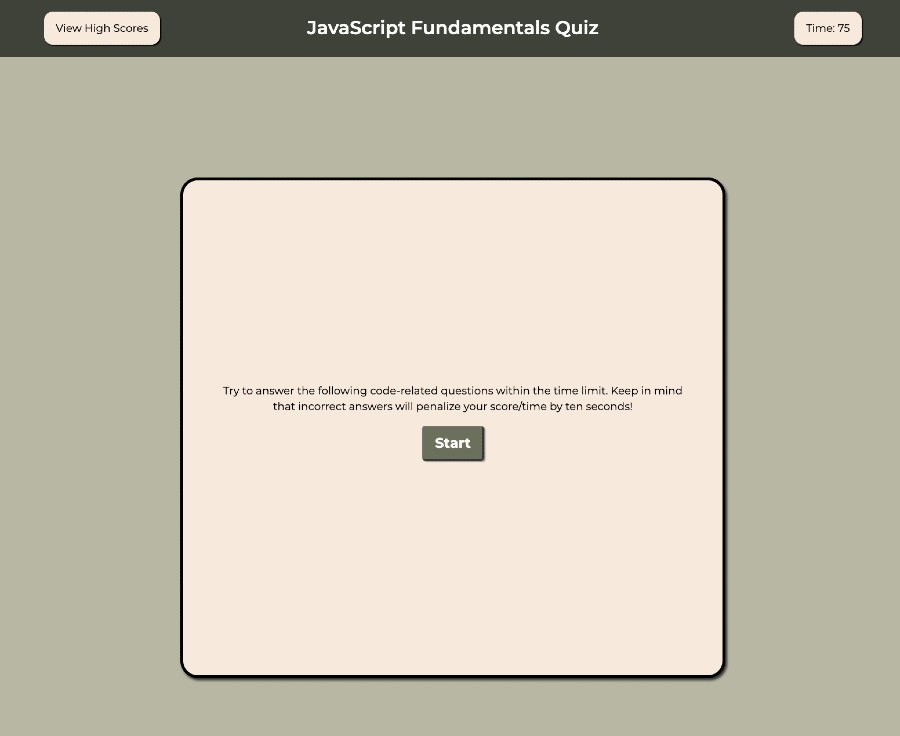
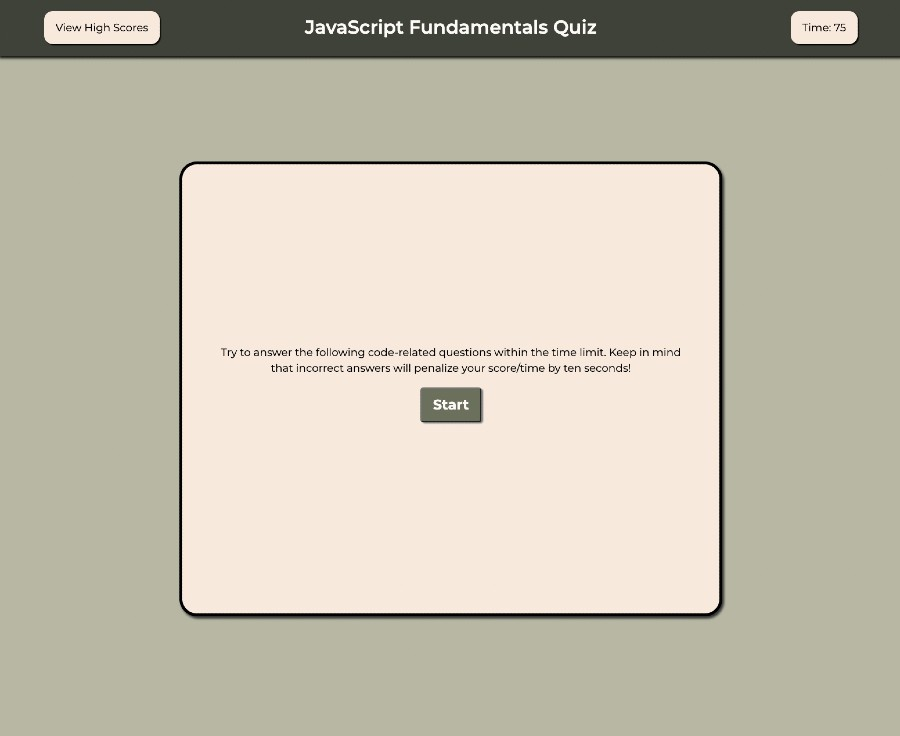
can't stop css-ing

Changed region(s): [[0.1867, 0.2188, 0.8089, 0.9375], [0.0, 0.0, 1.0, 0.0938], [0.2489, 0.4688, 0.7467, 0.625]]

diff --git a/assets/style.css b/assets/style.css
@@ -9,8 +9,6 @@
 :root {
   --correct:hsl(120, 43%, 24%);
   --incorrect:hsl(0, 53%, 69%);
-  --high-score:hsl(26, 65%, 92%);
-  --high-score-hover:hsl(21, 43%, 60%);
   --choice-btn:hsl(75, 10%, 40%);
   --choice-btn-hv:hsl(75, 10%, 35%);
   --high-score-list-col-1:#b7b7a4;
@@ -31,63 +29,7 @@ body {
   font-size: 1.15rem;
 }
 
-.container {
-  margin-top: 40px;
-  display: flex;
-  flex-direction: column;
-  justify-content: center;
-  height: 60%;
-  width:60%;
-  max-width: 70%;
-  background-color:var(--container-bg);
-  border-radius: 30px;
-  padding: 40px;
-  border: 5px solid black;
-  align-items: center;
-  text-align: center;
-  box-shadow: 3px 4px 4px rgb(53, 53, 53);
-}
-
-
-.btn {
-  background-color:var(--choice-btn);
-  border-radius: 5px;
-  padding:10px 10px;
-  outline: none;
-  cursor: pointer;
-  font-weight: 600;
-  margin: 5px;
-  font-size: 1.05rem;
-  box-shadow: 3px 2px 2px grey;
-  color: hsl(27, 66%, 98%);
-}
-
-.btn:hover {
-  border-color: #000;
-  transform: scale(1.03);
-  transform: .3s all ease;
-  background-color: var(--choice-btn-hv);
-}
-
-.btn-disabled {
-  pointer-events: none;
-}
-
-.start-btn {
-  font-weight: bold;
-  padding:10px 20px;
-  font-size: 1.5rem;
-  margin: 20px;
-}
-
-.controls {
-  margin: 20px;
-  display: flex;
-  flex-direction: column;
-  justify-content: center;
-  align-items: center;
-  }
-
+/* header  */
 header {
   display: flex;
   width: 100%;
@@ -97,11 +39,12 @@ header {
   background-color: var(--header);
   align-items: center;
   justify-content: space-around;
+  box-shadow: 0px 3px 5px #000;
 }
 
 header h1 {
   font-size: 2rem;
-  color: #fff;
+  color: hsl(27, 66%, 98%);
   margin: auto;
   font-weight: 600;
 }
@@ -123,6 +66,15 @@ header h1 {
   transition: .2s all ease;
 }
 
+#timer {
+  position:absolute;
+  right:5%;
+  background-color: var(--container-bg);
+  padding: 15px 20px;
+  border-radius: 15px; 
+  box-shadow: 2px 2px 2px #000;
+}
+
 #play-again {
   position:absolute;
   left:5%;
@@ -132,7 +84,6 @@ header h1 {
   cursor: pointer;
   text-decoration: none;
   color: #000;
-  font-weight: 600;
   box-shadow: 2px 2px 2px #000;
 }
 
@@ -141,37 +92,59 @@ header h1 {
   transition: .2s all ease;
 }
 
-#play-again-score-screen {
-  background-color: var(--container-bg);
-  padding: 15px 20px;
-  border-radius: 15px;
+
+/* main part of the game  */
+.container {
+  margin-top: 40px;
+  display: flex;
+  flex-direction: column;
+  justify-content: center;
+  height: 60%;
+  width:60%;
+  max-width: 70%;
+  background-color:var(--container-bg);
+  border-radius: 30px;
+  padding: 40px;
+  border: 5px solid black;
+  align-items: center;
+  text-align: center;
+  box-shadow: 3px 4px 4px rgb(53, 53, 53);
+}
+
+.btn {
+  background-color:var(--choice-btn);
+  border-radius: 5px;
+  padding:10px 10px;
+  outline: none;
   cursor: pointer;
-  text-decoration: none;
-  color: #000;
-  margin: 20px;
-  font-size: 1.15rem;
   font-weight: 600;
-  box-shadow: 2px 2px 2px #000;
+  margin: 5px;
+  font-size: 1.05rem;
+  box-shadow: 3px 2px 2px grey;
+  color: hsl(27, 66%, 98%);
 }
 
-#play-again-score-screen:hover {
-  background-color: var(--container-bg-hv);
-  transition: .2s all ease;
+.btn:hover {
+  border-color: #000;
+  transform: scale(1.03);
+  transform: .3s all ease;
+  background-color: var(--choice-btn-hv);
 }
 
-#play-again-link {
-  color: var(--choice-btn);
-  font-weight: 500;
+.start-btn {
+  font-weight: bold;
+  padding:10px 20px;
+  font-size: 1.5rem;
+  margin: 20px;
 }
 
-#timer {
-  position:absolute;
-  right:5%;
-  background-color: var(--container-bg);
-  padding: 15px 20px;
-  border-radius: 15px; 
-  box-shadow: 2px 2px 2px #000;
-}
+.controls {
+  margin: 20px;
+  display: flex;
+  flex-direction: column;
+  justify-content: center;
+  align-items: center;
+  }
 
 #answer-buttons {
   margin: 20px;
@@ -205,49 +178,14 @@ header h1 {
   transform: translateY(30px);
 }
 
-#high-scores-container {
-  display: flex;
-  width: 30%;
-  margin: auto;
-  flex-direction: column;
-  font-size: 1rem;
-  text-align: center;
-  background-color: var(--body-bg);
-}
-
-#high-scores-container h1 {
-  color: #fff;
-  font-size: 2.5rem;
-  text-shadow: 2px 2px 2px grey;
-  margin-top: 130px;
-}
-
-#high-scores-list {
-  display: flex;
-  flex-direction: column;
-  text-align: left;
-  width: 100%;
-  margin-bottom: 20px;
-  border: 7px solid var(--header);
-  border-radius: 20px;
-  padding: 40px;
+/* game over  */
+#play-again-link {
+  color: var(--choice-btn);
   font-weight: 500;
-  background-color: var(--container-bg);
 }
 
-#high-scores-list li {
-  padding: 10px;
-  color: white;
-}
 
-#high-scores-list li:first-child {
-  border-radius: 10px 10px 0 0;
-}
-
-#high-scores-list li:last-child {
-  border-radius: 0 0 10px 10px;
-}
-
+/* entering your initial  */
 #label {
   margin-right:8px;
 }
@@ -274,6 +212,72 @@ header h1 {
   transform: scale(1.03);
 } 
 
+
+/* high scores page  */
+#high-scores-container {
+  display: flex;
+  width: 30%;
+  margin: auto;
+  flex-direction: column;
+  font-size: 1rem;
+  text-align: center;
+  background-color: var(--body-bg);
+}
+
+#high-scores-container h1 {
+  color: hsl(27, 66%, 98%);
+  font-size: 2.5rem;
+  text-shadow: 2px 2px 2px grey;
+  margin-top: 130px;
+}
+
+#high-scores-list {
+  display: flex;
+  flex-direction: column;
+  text-align: left;
+  width: 100%;
+  margin-bottom: 20px;
+  border: 7px solid var(--header);
+  border-radius: 20px;
+  padding: 40px;
+  font-weight: 500;
+  background-color: var(--container-bg);
+}
+
+#high-scores-list li {
+  padding: 10px;
+  color: hsl(27, 66%, 98%);
+  font-weight: 600;
+  font-size: 1.15rem;
+}
+
+#high-scores-list li:first-child {
+  border-radius: 10px 10px 0 0;
+}
+
+#high-scores-list li:last-child {
+  border-radius: 0 0 10px 10px;
+}
+
+#play-again-score-screen {
+  background-color: var(--container-bg);
+  padding: 15px 20px;
+  border-radius: 15px;
+  cursor: pointer;
+  text-decoration: none;
+  color: #000;
+  margin: 20px;
+  font-size: 1.15rem;
+  font-weight: 600;
+  box-shadow: 2px 2px 2px #000;
+}
+
+#play-again-score-screen:hover {
+  background-color: var(--container-bg-hv);
+  transition: .2s all ease;
+}
+
+/* general use hide class */
 .hide {
   display: none;
 }

diff --git a/index.html b/index.html
@@ -37,7 +37,7 @@
       <div class="controls">
         <div class="welcome-message"></div>
         <div class="game-over-message hide">Game over. 
-          <a href="./index.html" id="play-again-link">Play aagain?</a>
+          <a href="./index.html" id="play-again-link">Play again?</a>
         </div>
         <button id="start-btn" class="start-btn btn">Start</button>
       </div>

diff --git a/scores.html b/scores.html
@@ -10,7 +10,7 @@
 </head>
 <body>
   <header>
-    <a href="./index.html" id="play-again">Play again</a>
+    <a href="./index.html" id="play-again">Play Again</a>
     <h1>JavaScript Fundamentals Quiz</h1>
   </header>
   <div id="high-scores-container">
